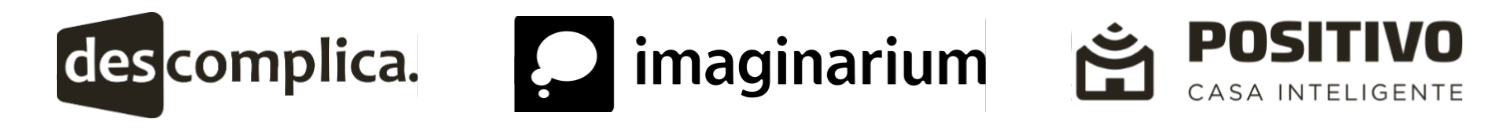
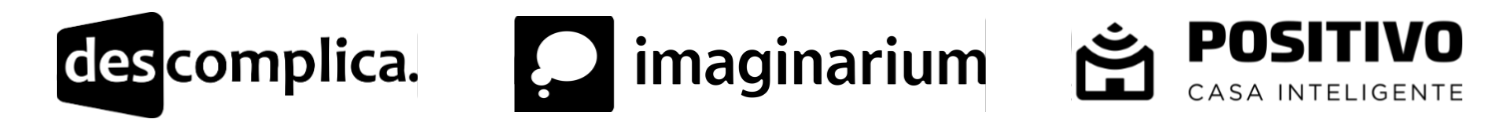
fix: removing bad properties

Changed region(s): [[0.7053, 0.1562, 0.9813, 0.7812], [0.0307, 0.0938, 0.276, 0.9375]]

diff --git a/src/components/moleculars/CardPartners/styles.ts b/src/components/moleculars/CardPartners/styles.ts
@@ -40,7 +40,6 @@ export const Subtitle = styled.Text`
 `;
 
 export const Brands = styled.Image`
-  filter: brightness(0);
   width: 100%;
   max-width: 400px;
   height: 40px;
@@ -52,7 +51,6 @@ export const Cta = styled.Text`
 
   margin-top: ${theme.spacingNative(8)}px;
   color: ${theme.colors.brand.primary[800]};
-  cursor: pointer;
 
   :hover {
     color: ${theme.colors.brand.primary[600]};
